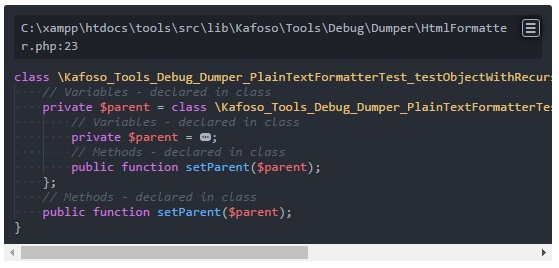
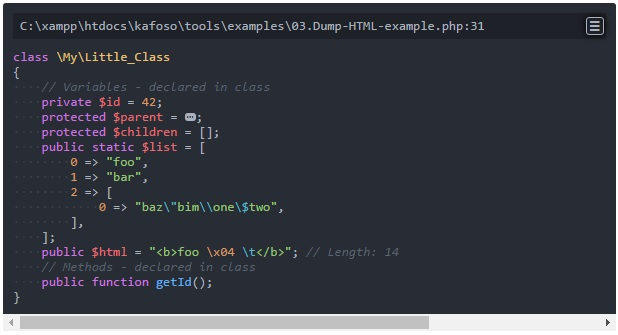
Browser optimizations + ASCII characters in strings
- Fixed browser expand/collapse logic.
- Improved displaying of ASCII characters in strings (colored orange).

Changed region(s): [[0.0, 0.0, 1.0, 0.9851], [0.517, 0.7463, 0.6386, 0.7761]]

diff --git a/tests/resources/unit/Kafoso/Tools/Debug/Dumper/HtmlFormatterTest/testObjectMultipleLevelsWithoutRecursion.expected.html b/tests/resources/unit/Kafoso/Tools/Debug/Dumper/HtmlFormatterTest/testObjectMultipleLevelsWithoutRecursion.expected.html
@@ -1,10 +1,10 @@
-<span class="expanded"><span><span><span class="syntax--storage syntax--type syntax--class syntax--php">class</span> <a title="Object #" name="Object_"><span class="syntax--entity syntax--name syntax--class">\Kafoso_Tools_Debug_Dumper_PlainTextFormatterTest_testObjectMultipleLevelsWithoutRecursion_e01540c6d67623eed60a8f0c3ceeb730</span></a>
+<span><span><span class="syntax--storage syntax--type syntax--class syntax--php">class</span> <a title="Object #" name="Object_"><span class="syntax--entity syntax--name syntax--class">\Kafoso_Tools_Debug_Dumper_PlainTextFormatterTest_testObjectMultipleLevelsWithoutRecursion_e01540c6d67623eed60a8f0c3ceeb730</span></a>
 <span>{</span>
 </span><span><span class="invisible-character leading-whitespace indent-guide">    </span><span class="syntax--comment syntax--line syntax--double-slash syntax--php">// Variables - declared in class</span>
-<span class="invisible-character leading-whitespace indent-guide">    </span><span class="syntax--storage syntax--modifier syntax--php">private</span> <span class="syntax--variable">$parent</span> = <span class="expanded"><span><span><span class="syntax--storage syntax--type syntax--class syntax--php">class</span> <a title="Object #" name="Object_"><span class="syntax--entity syntax--name syntax--class">\Kafoso_Tools_Debug_Dumper_PlainTextFormatterTest_testObjectMultipleLevelsWithoutRecursion_e01540c6d67623eed60a8f0c3ceeb730</span></a>
+<span class="invisible-character leading-whitespace indent-guide">    </span><span class="syntax--storage syntax--modifier syntax--php">private</span> <span class="syntax--variable">$parent</span> = <span class="collapsible expanded"><span><span><span class="syntax--storage syntax--type syntax--class syntax--php">class</span> <a title="Object #" name="Object_"><span class="syntax--entity syntax--name syntax--class">\Kafoso_Tools_Debug_Dumper_PlainTextFormatterTest_testObjectMultipleLevelsWithoutRecursion_e01540c6d67623eed60a8f0c3ceeb730</span></a>
 <span class="invisible-character leading-whitespace indent-guide">    </span><span>{</span>
 </span><span><span class="invisible-character leading-whitespace indent-guide">    </span><span class="invisible-character leading-whitespace indent-guide">    </span><span class="syntax--comment syntax--line syntax--double-slash syntax--php">// Variables - declared in class</span>
-<span class="invisible-character leading-whitespace indent-guide">    </span><span class="invisible-character leading-whitespace indent-guide">    </span><span class="syntax--storage syntax--modifier syntax--php">private</span> <span class="syntax--variable">$parent</span> = <span class="expanded"><span><span><span class="syntax--storage syntax--type syntax--class syntax--php">class</span> <a title="Object #" name="Object_"><span class="syntax--entity syntax--name syntax--class">\Kafoso_Tools_Debug_Dumper_PlainTextFormatterTest_testObjectMultipleLevelsWithoutRecursion_e01540c6d67623eed60a8f0c3ceeb730</span></a>
+<span class="invisible-character leading-whitespace indent-guide">    </span><span class="invisible-character leading-whitespace indent-guide">    </span><span class="syntax--storage syntax--modifier syntax--php">private</span> <span class="syntax--variable">$parent</span> = <span class="collapsible expanded"><span><span><span class="syntax--storage syntax--type syntax--class syntax--php">class</span> <a title="Object #" name="Object_"><span class="syntax--entity syntax--name syntax--class">\Kafoso_Tools_Debug_Dumper_PlainTextFormatterTest_testObjectMultipleLevelsWithoutRecursion_e01540c6d67623eed60a8f0c3ceeb730</span></a>
 <span class="invisible-character leading-whitespace indent-guide">    </span><span class="invisible-character leading-whitespace indent-guide">    </span><span>{</span>
 </span><span><span class="invisible-character leading-whitespace indent-guide">    </span><span class="invisible-character leading-whitespace indent-guide">    </span><span class="invisible-character leading-whitespace indent-guide">    </span><span class="syntax--comment syntax--line syntax--double-slash syntax--php">// Variables - declared in class</span>
 <span class="invisible-character leading-whitespace indent-guide">    </span><span class="invisible-character leading-whitespace indent-guide">    </span><span class="invisible-character leading-whitespace indent-guide">    </span><span class="syntax--storage syntax--modifier syntax--php">private</span> <span class="syntax--variable">$parent</span> = <span class="syntax--language syntax--php syntax--constant">null</span>;
@@ -16,4 +16,4 @@
 <span class="invisible-character leading-whitespace indent-guide">    </span><span>}</span></span></span>;
 <span class="invisible-character leading-whitespace indent-guide">    </span><span class="syntax--comment syntax--line syntax--double-slash syntax--php">// Methods - declared in class</span>
 <span class="invisible-character leading-whitespace indent-guide">    </span><span class="syntax--storage">public function</span> <span class="syntax--entity syntax--name function">setParent</span>(<span class="syntax--variable">$parent</span>);</span>
-<span>}</span></span></span>
+<span>}</span></span>

diff --git a/tests/resources/unit/Kafoso/Tools/Debug/Dumper/HtmlFormatterTest/testObjectWithRecursion.expected.html b/tests/resources/unit/Kafoso/Tools/Debug/Dumper/HtmlFormatterTest/testObjectWithRecursion.expected.html
@@ -1,7 +1,7 @@
-<span class="expanded"><span><span><span class="syntax--storage syntax--type syntax--class syntax--php">class</span> <a title="Object #" name="Object_"><span class="syntax--entity syntax--name syntax--class">\Kafoso_Tools_Debug_Dumper_PlainTextFormatterTest_testObjectWithRecursion_298813df09b29eda5ff52f85f788ed5d</span></a>
+<span><span><span class="syntax--storage syntax--type syntax--class syntax--php">class</span> <a title="Object #" name="Object_"><span class="syntax--entity syntax--name syntax--class">\Kafoso_Tools_Debug_Dumper_PlainTextFormatterTest_testObjectWithRecursion_298813df09b29eda5ff52f85f788ed5d</span></a>
 <span>{</span>
 </span><span><span class="invisible-character leading-whitespace indent-guide">    </span><span class="syntax--comment syntax--line syntax--double-slash syntax--php">// Variables - declared in class</span>
-<span class="invisible-character leading-whitespace indent-guide">    </span><span class="syntax--storage syntax--modifier syntax--php">private</span> <span class="syntax--variable">$parent</span> = <span class="expanded"><span><span><span class="syntax--storage syntax--type syntax--class syntax--php">class</span> <a title="Object #" name="Object_"><span class="syntax--entity syntax--name syntax--class">\Kafoso_Tools_Debug_Dumper_PlainTextFormatterTest_testObjectWithRecursion_298813df09b29eda5ff52f85f788ed5d</span></a>
+<span class="invisible-character leading-whitespace indent-guide">    </span><span class="syntax--storage syntax--modifier syntax--php">private</span> <span class="syntax--variable">$parent</span> = <span class="collapsible expanded"><span><span><span class="syntax--storage syntax--type syntax--class syntax--php">class</span> <a title="Object #" name="Object_"><span class="syntax--entity syntax--name syntax--class">\Kafoso_Tools_Debug_Dumper_PlainTextFormatterTest_testObjectWithRecursion_298813df09b29eda5ff52f85f788ed5d</span></a>
 <span class="invisible-character leading-whitespace indent-guide">    </span><span>{</span>
 </span><span><span class="invisible-character leading-whitespace indent-guide">    </span><span class="invisible-character leading-whitespace indent-guide">    </span><span class="syntax--comment syntax--line syntax--double-slash syntax--php">// Variables - declared in class</span>
 <span class="invisible-character leading-whitespace indent-guide">    </span><span class="invisible-character leading-whitespace indent-guide">    </span><span class="syntax--storage syntax--modifier syntax--php">private</span> <span class="syntax--variable">$parent</span> = <a href="#Object_"><strong>**RECURSION**</strong> Object #</a>;
@@ -10,4 +10,4 @@
 <span class="invisible-character leading-whitespace indent-guide">    </span><span>}</span></span></span>;
 <span class="invisible-character leading-whitespace indent-guide">    </span><span class="syntax--comment syntax--line syntax--double-slash syntax--php">// Methods - declared in class</span>
 <span class="invisible-character leading-whitespace indent-guide">    </span><span class="syntax--storage">public function</span> <span class="syntax--entity syntax--name function">setParent</span>(<span class="syntax--variable">$parent</span>);</span>
-<span>}</span></span></span>
+<span>}</span></span>

diff --git a/tests/resources/unit/Kafoso/Tools/Debug/Dumper/HtmlFormatterTest/testObjectOmitted.expected.html b/tests/resources/unit/Kafoso/Tools/Debug/Dumper/HtmlFormatterTest/testObjectOmitted.expected.html
@@ -1,7 +1,7 @@
-<span class="expanded"><span><span><span class="syntax--storage syntax--type syntax--class syntax--php">class</span> <a title="Object #" name="Object_"><span class="syntax--entity syntax--name syntax--class">\Kafoso_Tools_Debug_Dumper_PlainTextFormatterTest_testObjectWithRecursion_298813df09b29eda5ff52f85f788ed5d</span></a>
+<span><span><span class="syntax--storage syntax--type syntax--class syntax--php">class</span> <a title="Object #" name="Object_"><span class="syntax--entity syntax--name syntax--class">\Kafoso_Tools_Debug_Dumper_PlainTextFormatterTest_testObjectWithRecursion_298813df09b29eda5ff52f85f788ed5d</span></a>
 <span>{</span>
 </span><span><span class="invisible-character leading-whitespace indent-guide">    </span><span class="syntax--comment syntax--line syntax--double-slash syntax--php">// Variables - declared in class</span>
-<span class="invisible-character leading-whitespace indent-guide">    </span><span class="syntax--storage syntax--modifier syntax--php">private</span> <span class="syntax--variable">$parent</span> = <span class="expanded"><span><span><span class="syntax--storage syntax--type syntax--class syntax--php">class</span> <a title="Object #" name="Object_"><span class="syntax--entity syntax--name syntax--class">\Kafoso_Tools_Debug_Dumper_PlainTextFormatterTest_testObjectWithRecursion_298813df09b29eda5ff52f85f788ed5d</span></a>
+<span class="invisible-character leading-whitespace indent-guide">    </span><span class="syntax--storage syntax--modifier syntax--php">private</span> <span class="syntax--variable">$parent</span> = <span class="collapsible expanded"><span><span><span class="syntax--storage syntax--type syntax--class syntax--php">class</span> <a title="Object #" name="Object_"><span class="syntax--entity syntax--name syntax--class">\Kafoso_Tools_Debug_Dumper_PlainTextFormatterTest_testObjectWithRecursion_298813df09b29eda5ff52f85f788ed5d</span></a>
 <span class="invisible-character leading-whitespace indent-guide">    </span><span>{</span>
 </span><span><span class="invisible-character leading-whitespace indent-guide">    </span><span class="invisible-character leading-whitespace indent-guide">    </span><span class="syntax--comment syntax--line syntax--double-slash syntax--php">// Variables - declared in class</span>
 <span class="invisible-character leading-whitespace indent-guide">    </span><span class="invisible-character leading-whitespace indent-guide">    </span><span class="syntax--storage syntax--modifier syntax--php">private</span> <span class="syntax--variable">$parent</span> = <span title="Object #">(Object #; omitted)</span>;
@@ -10,4 +10,4 @@
 <span class="invisible-character leading-whitespace indent-guide">    </span><span>}</span></span></span>;
 <span class="invisible-character leading-whitespace indent-guide">    </span><span class="syntax--comment syntax--line syntax--double-slash syntax--php">// Methods - declared in class</span>
 <span class="invisible-character leading-whitespace indent-guide">    </span><span class="syntax--storage">public function</span> <span class="syntax--entity syntax--name function">setParent</span>(<span class="syntax--variable">$parent</span>);</span>
-<span>}</span></span></span>
+<span>}</span></span>

diff --git a/resources/Kafoso/Tools/Debug/Dumper/HtmlFormatter/js/main.js b/resources/Kafoso/Tools/Debug/Dumper/HtmlFormatter/js/main.js
@@ -53,7 +53,7 @@
         foldMarkSpan.innerHTML = '&hellip;';
         foldMarkSpan.setAttribute('class', 'fold-marker');
         var clone;
-        var expandedNodes = main.getElementsByClassName('expanded');
+        var collapsibleNodes = main.getElementsByClassName('collapsible');
         var collapseLevel = readCookie("Kafoso_Tools_Debug_Dumper_1a83b742_c5ce_11e6_9c64_842b2bb76d27_options_collapseLevel");
         if (collapseLevel) {
             collapseLevel = parseInt(collapseLevel, 10);
@@ -72,21 +72,27 @@
         inputNode.onkeydown = onchangeCallback;
         inputNode.onpaste = onchangeCallback;
         inputNode.onchange = onchangeCallback;
-        if (collapseLevel && collapseLevel > 0) {
-            each(expandedNodes, function(expandedNode){
-                if (expandedNode.parentNode) {
-                    if (getCountOfAllExpandedParents(expandedNode) > collapseLevel) {
-                        clone = foldMarkSpan.cloneNode(true);
-                        expandedNode.parentNode.insertBefore(clone, expandedNode);
-                        expandedNode.setAttribute('class', 'collapsed');
-                        clone.onclick = function(){
-                            this.nextSibling.setAttribute("class", "expanded");
-                            this.parentNode.removeChild(this);
-                        };
-                    }
+        each(collapsibleNodes, function(collapsibleNode){
+            if (collapsibleNode.parentNode) {
+                clone = foldMarkSpan.cloneNode(true);
+                collapsibleNode.parentNode.insertBefore(clone, collapsibleNode);
+                if (collapseLevel <= 0 || getCountOfAllExpandedParents(collapsibleNode) > collapseLevel) {
+                    collapsibleNode.setAttribute('class', 'collapsible collapsed');
+                } else {
+                    clone.setAttribute("class", "fold-marker isHidden");
                 }
-            });
-        }
+                clone.onclick = function(){
+                    var classes = this.nextSibling.getAttribute('class');
+                    if (classes && classes.length && classes.match(/(^|\s)expanded(\s|$)/)) {
+                        this.nextSibling.setAttribute("class", "collapsible collapsed");
+                        this.setAttribute("class", "fold-marker");
+                    } else {
+                        this.nextSibling.setAttribute("class", "collapsible expanded");
+                        this.setAttribute("class", "fold-marker isHidden");
+                    }
+                };
+            }
+        });
         each(main.getElementsByClassName('optionsButton'), function(optionsButton){
             optionsButton.onclick = function(){
                 var options = this.parentNode.getElementsByClassName('options')[0];

diff --git a/tests/resources/unit/Kafoso/Tools/Debug/Dumper/HtmlFormatterTest/testObjectOneDimension.expected.html b/tests/resources/unit/Kafoso/Tools/Debug/Dumper/HtmlFormatterTest/testObjectOneDimension.expected.html
@@ -1,4 +1,4 @@
-<span class="expanded"><span><span><span class="syntax--storage syntax--type syntax--class syntax--php">final class</span> <a title="Object #" name="Object_"><span class="syntax--entity syntax--name syntax--class">\Kafoso_Tools_Debug_Dumper_PlainTextFormatterTest_testObjectOneDimension_b0559f888359b081714fdea9d26c65b7</span></a>
+<span><span><span class="syntax--storage syntax--type syntax--class syntax--php">final class</span> <a title="Object #" name="Object_"><span class="syntax--entity syntax--name syntax--class">\Kafoso_Tools_Debug_Dumper_PlainTextFormatterTest_testObjectOneDimension_b0559f888359b081714fdea9d26c65b7</span></a>
 <span class="invisible-character leading-whitespace indent-guide">    </span><span class="syntax--storage syntax--modifier syntax--extends syntax--php">extends</span> <span class="syntax--storage syntax--modifier syntax--extends syntax--php">\Abstract_Kafoso_Tools_Debug_Dumper_PlainTextFormatterTest_testObjectOneDimension_b0559f888359b081714fdea9d26c65b7</span>
 <span class="invisible-character leading-whitespace indent-guide">    </span><span class="syntax--storage syntax--modifier syntax--implements syntax--php">implements</span> <span class="syntax--meta syntax--other syntax--inherited-class syntax--php"><span class="syntax--entity syntax--other syntax--inherited-class syntax--php">\Interface_Kafoso_Tools_Debug_Dumper_PlainTextFormatterTest_testObjectOneDimension_b0559f888359b081714fdea9d26c65b7</span></span>
 <span>{</span>
@@ -44,4 +44,4 @@
 <span class="invisible-character leading-whitespace indent-guide">    </span><span class="syntax--comment syntax--line syntax--double-slash syntax--php">// Methods - Inherited</span>
 <span class="invisible-character leading-whitespace indent-guide">    </span><span class="syntax--storage">protected function</span> <span class="syntax--entity syntax--name function">anInheritedMethod</span>(); <span class="syntax--comment syntax--line syntax--double-slash syntax--php">// <span class="syntax--keyword syntax--other syntax--phpdoc syntax--php">@inherit</span> \Abstract_Kafoso_Tools_Debug_Dumper_PlainTextFormatterTest_testObjectOneDimension_b0559f888359b081714fdea9d26c65b7</span>
 <span class="invisible-character leading-whitespace indent-guide">    </span><span class="syntax--storage">protected static function</span> <span class="syntax--entity syntax--name function">anInheritedStaticMethod</span>(); <span class="syntax--comment syntax--line syntax--double-slash syntax--php">// <span class="syntax--keyword syntax--other syntax--phpdoc syntax--php">@inherit</span> \Abstract_Kafoso_Tools_Debug_Dumper_PlainTextFormatterTest_testObjectOneDimension_b0559f888359b081714fdea9d26c65b7</span></span>
-<span>}</span></span></span>
+<span>}</span></span>

diff --git a/tests/resources/unit/Kafoso/Tools/Debug/Dumper/HtmlFormatterTest/testArrayMultipleDimensions.expected.html b/tests/resources/unit/Kafoso/Tools/Debug/Dumper/HtmlFormatterTest/testArrayMultipleDimensions.expected.html
@@ -1,8 +1,8 @@
 [
-<span class="invisible-character leading-whitespace indent-guide">    </span><span class="syntax--language syntax--php syntax--string">&quot;foo&quot;</span> => [
-<span class="invisible-character leading-whitespace indent-guide">    </span><span class="invisible-character leading-whitespace indent-guide">    </span><span class="syntax--language syntax--php syntax--string">&quot;bar&quot;</span> => [
+<span class="invisible-character leading-whitespace indent-guide">    </span><span class="syntax--language syntax--php syntax--string">&quot;foo&quot;</span> => <span class="collapsible expanded">[
+<span class="invisible-character leading-whitespace indent-guide">    </span><span class="invisible-character leading-whitespace indent-guide">    </span><span class="syntax--language syntax--php syntax--string">&quot;bar&quot;</span> => <span class="collapsible expanded">[
 <span class="invisible-character leading-whitespace indent-guide">    </span><span class="invisible-character leading-whitespace indent-guide">    </span><span class="invisible-character leading-whitespace indent-guide">    </span><span class="syntax--language syntax--php syntax--string">&quot;baz&quot;</span> => <span class="syntax--language syntax--php syntax--constant syntax--numeric">1</span>,
 <span class="invisible-character leading-whitespace indent-guide">    </span><span class="invisible-character leading-whitespace indent-guide">    </span><span class="invisible-character leading-whitespace indent-guide">    </span><span class="syntax--language syntax--php syntax--string">&quot;bim&quot;</span> => <span class="syntax--language syntax--php syntax--constant">null</span>,
-<span class="invisible-character leading-whitespace indent-guide">    </span><span class="invisible-character leading-whitespace indent-guide">    </span>],
-<span class="invisible-character leading-whitespace indent-guide">    </span>],
+<span class="invisible-character leading-whitespace indent-guide">    </span><span class="invisible-character leading-whitespace indent-guide">    </span>]</span>,
+<span class="invisible-character leading-whitespace indent-guide">    </span>]</span>,
 ]

diff --git a/resources/Kafoso/Tools/Debug/Dumper/HtmlFormatter/theme/dark-one-ui.css b/resources/Kafoso/Tools/Debug/Dumper/HtmlFormatter/theme/dark-one-ui.css
@@ -112,8 +112,11 @@
     color:#d6941a !important;
     text-decoration:underline !important;
 }
-.Kafoso_Tools_Debug_Dumper_1a83b742_c5ce_11e6_9c64_842b2bb76d27 .collapsed {
+.Kafoso_Tools_Debug_Dumper_1a83b742_c5ce_11e6_9c64_842b2bb76d27 .collapsible {
     display:none !important;
+}
+.Kafoso_Tools_Debug_Dumper_1a83b742_c5ce_11e6_9c64_842b2bb76d27 .collapsible.expanded {
+    display:inline !important;
 }
 .Kafoso_Tools_Debug_Dumper_1a83b742_c5ce_11e6_9c64_842b2bb76d27 .syntax--comment {
     color:#5c6370 !important;
@@ -154,6 +157,9 @@
     -moz-border-radius:3px !important;
     border-radius:3px !important;
     cursor:pointer !important;
+}
+.Kafoso_Tools_Debug_Dumper_1a83b742_c5ce_11e6_9c64_842b2bb76d27 .fold-marker.isHidden {
+    display:none !important;
 }
 .Kafoso_Tools_Debug_Dumper_1a83b742_c5ce_11e6_9c64_842b2bb76d27 .indent-guide,
 .Kafoso_Tools_Debug_Dumper_1a83b742_c5ce_11e6_9c64_842b2bb76d27 .invisible-character {

diff --git a/tests/resources/unit/Kafoso/Tools/Debug/Dumper/HtmlFormatterTest/testArrayMultipleDimensionsOmitted.expected.html b/tests/resources/unit/Kafoso/Tools/Debug/Dumper/HtmlFormatterTest/testArrayMultipleDimensionsOmitted.expected.html
@@ -1,5 +1,5 @@
 [
-<span class="invisible-character leading-whitespace indent-guide">    </span><span class="syntax--language syntax--php syntax--string">&quot;foo&quot;</span> => [
+<span class="invisible-character leading-whitespace indent-guide">    </span><span class="syntax--language syntax--php syntax--string">&quot;foo&quot;</span> => <span class="collapsible expanded">[
 <span class="invisible-character leading-whitespace indent-guide">    </span><span class="invisible-character leading-whitespace indent-guide">    </span><span class="syntax--language syntax--php syntax--string">&quot;bar&quot;</span> => (Array(2); omitted),
-<span class="invisible-character leading-whitespace indent-guide">    </span>],
+<span class="invisible-character leading-whitespace indent-guide">    </span>]</span>,
 ]

diff --git a/src/lib/Kafoso/Tools/Debug/Dumper/HtmlFormatter.php b/src/lib/Kafoso/Tools/Debug/Dumper/HtmlFormatter.php
@@ -128,6 +128,9 @@ class HtmlFormatter extends AbstractFormatter
         } else {
             $html = '[]';
         }
+        if ($level > 0 && '[]' != $html) {
+            $html = '<span class="collapsible expanded">' . $html . '</span>';
+        }
         return $html;
     }
 
@@ -145,38 +148,56 @@ class HtmlFormatter extends AbstractFormatter
         $class = "";["syntax--language syntax--php"];
         if (is_bool($value) || is_null($value) || is_float($value) || is_int($value)) {
             $class = "syntax--language syntax--php syntax--constant";
-            if (is_float($value) || is_int($value)) {
+            if (is_null($value)) {
+                $value = "null";
+            } elseif (is_bool($value)) {
+                $value = ($value ? "true" : "false");
+            } elseif (is_float($value) || is_int($value)) {
                 $class .= " syntax--numeric";
             }
-        } elseif (is_string($value)) {
+        } else {
             $class = "syntax--language syntax--php syntax--string";
-            $value = addcslashes($value, '"\\$');
-            $split = preg_split('/(\\\\["|\$|\\\\])/', $value, -1, PREG_SPLIT_DELIM_CAPTURE | PREG_SPLIT_NO_EMPTY);
+            $value = strval($value);
+            $regexAsciiCharacters = '[\x00-\x1F\x7F]';
+            $split = preg_split("/(\\$|\\\"|\\\\|$regexAsciiCharacters)/", $value, -1, PREG_SPLIT_DELIM_CAPTURE | PREG_SPLIT_NO_EMPTY);
             if (count($split) > 1) {
                 $value = "";
                 $i = 0;
                 foreach ($split as $segment) {
+                    $subClass = "syntax--constant syntax--character syntax--escape syntax--php";
                     if (0 == $i%2) {
                         $value .= htmlentities($segment);
                     } else {
+                        if ("\e" === $segment) {
+                            $segment = "\\e";
+                        } elseif ("\n" === $segment) {
+                            $segment = "\\n";
+                        } elseif ("\r" === $segment) {
+                            $segment = "\\r";
+                        } elseif ("\t" === $segment) {
+                            $segment = "\\t";
+                        } else {
+                            preg_match("/$regexAsciiCharacters/", $segment, $match);
+                            if ($match) {
+                                $segment = "\\x" . bin2hex($match[0]);
+                                $subClass = "syntax--constant syntax--numeric syntax--octal syntax--php";
+                            } else {
+                                $segment = "\\" . $segment;
+                            }
+                        }
                         $value .= sprintf(
-                            '<span class="syntax--constant syntax--character syntax--escape syntax--php">%s</span>',
+                            '<span class="%s">%s</span>',
+                            $subClass,
                             htmlentities($segment)
                         );
                     }
                     $i++;
                 }
+                $quot = htmlentities('"');
+                $value = "{$quot}{$value}{$quot}";
             } else {
-                $value = htmlentities($value);
+                $value = htmlentities('"' . $value . '"');
             }
-            $value = '&quot;' . $value . '&quot;';
-        }
-        if (is_null($value)) {
-            $value = "null";
-        } elseif (is_bool($value)) {
-            $value = ($value ? "true" : "false");
-        } else {
-            $value = strval($value);
         }
         return sprintf(
             '<span class="%s">%s</span>',
@@ -589,7 +610,9 @@ class HtmlFormatter extends AbstractFormatter
             . PHP_EOL . $indentation
             . '<span>}</span>'
             . '</span>';
-        $html = '<span class="expanded">' . $html . '</span>';
+        if ($level > 0) {
+            $html = '<span class="collapsible expanded">' . $html . '</span>';
+        }
         return $html;
     }
 

diff --git a/tests/unit/Kafoso/Tools/Debug/Dumper/HtmlFormatterTest.php b/tests/unit/Kafoso/Tools/Debug/Dumper/HtmlFormatterTest.php
@@ -38,12 +38,32 @@ class HtmlFormatterTest extends \PHPUnit_Framework_TestCase
         $this->assertSame($expected, $htmlFormatter->renderInner());
     }
 
-    public function testStringIsEscapedProperly()
+    /**
+     * @dataProvider    dataProvider_testStringIsEscapedProperly
+     */
+    public function testStringIsEscapedProperly($string, $expected)
     {
         $baseDirectory = realpath(__DIR__ . str_repeat('/..', 5));
-        $htmlFormatter = new HtmlFormatter("foo\"bar\\baz\$bim");
-        $expected = trim(file_get_contents($baseDirectory . "/resources/unit/Kafoso/Tools/Debug/Dumper/HtmlFormatterTest/testStringIsEscapedProperly.expected.html"));
+        $htmlFormatter = new HtmlFormatter($string);
+        $stringEncoded = htmlentities($string);
+        $expected = '<span class="syntax--language syntax--php syntax--string">&quot;' . $expected . '&quot;</span>';
         $this->assertSame($expected, $htmlFormatter->renderInner());
+    }
+
+    public function dataProvider_testStringIsEscapedProperly()
+    {
+        return [
+            ["foo\"bar", 'foo<span class="syntax--constant syntax--character syntax--escape syntax--php">\\&quot;</span>bar'],
+            ["foo\\bar", 'foo<span class="syntax--constant syntax--character syntax--escape syntax--php">\\\\</span>bar'],
+            ["foo\$bar", 'foo<span class="syntax--constant syntax--character syntax--escape syntax--php">\\$</span>bar'],
+            ["foo\ebar", 'foo<span class="syntax--constant syntax--character syntax--escape syntax--php">\\e</span>bar'],
+            ["foo\nbar", 'foo<span class="syntax--constant syntax--character syntax--escape syntax--php">\\n</span>bar'],
+            ["foo\rbar", 'foo<span class="syntax--constant syntax--character syntax--escape syntax--php">\\r</span>bar'],
+            ["foo\tbar", 'foo<span class="syntax--constant syntax--character syntax--escape syntax--php">\\t</span>bar'],
+            ["foo\x4 bar", 'foo<span class="syntax--constant syntax--numeric syntax--octal syntax--php">\\x04</span> bar'],
+            ["foo\x4bar", 'fooKar'], // ASCII character "K"
+            ["foo\4bar", 'foo<span class="syntax--constant syntax--numeric syntax--octal syntax--php">\\x04</span>bar'],
+        ];
     }
 
     public function testArrayOneDimension()

diff --git a/examples/DebugDumperExample/My/Little_Class.php b/examples/DebugDumperExample/My/Little_Class.php
@@ -13,7 +13,7 @@ class Little_Class
             "baz\"bim\\one\$two"
         ]
     ];
-    public $html = '<b>foo</b>';
+    public $html = "<b>foo \x4 \t</b>";
 
     public function getId()
     {
